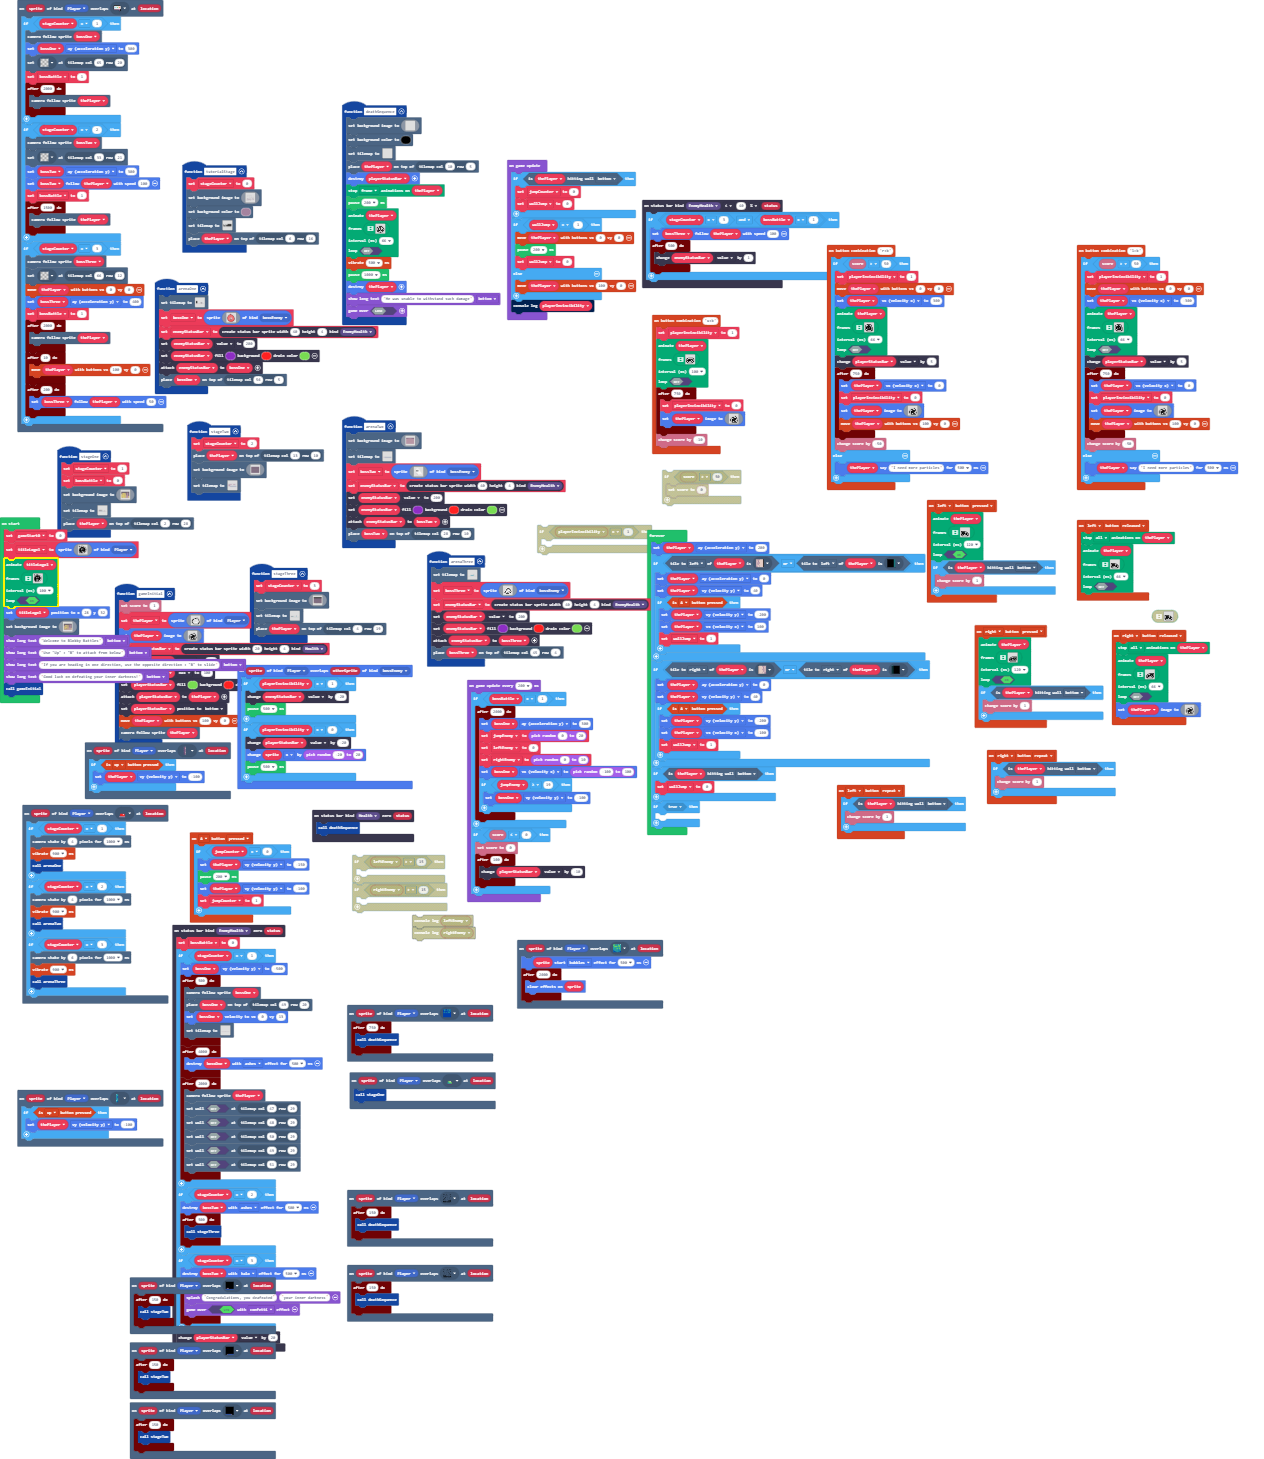
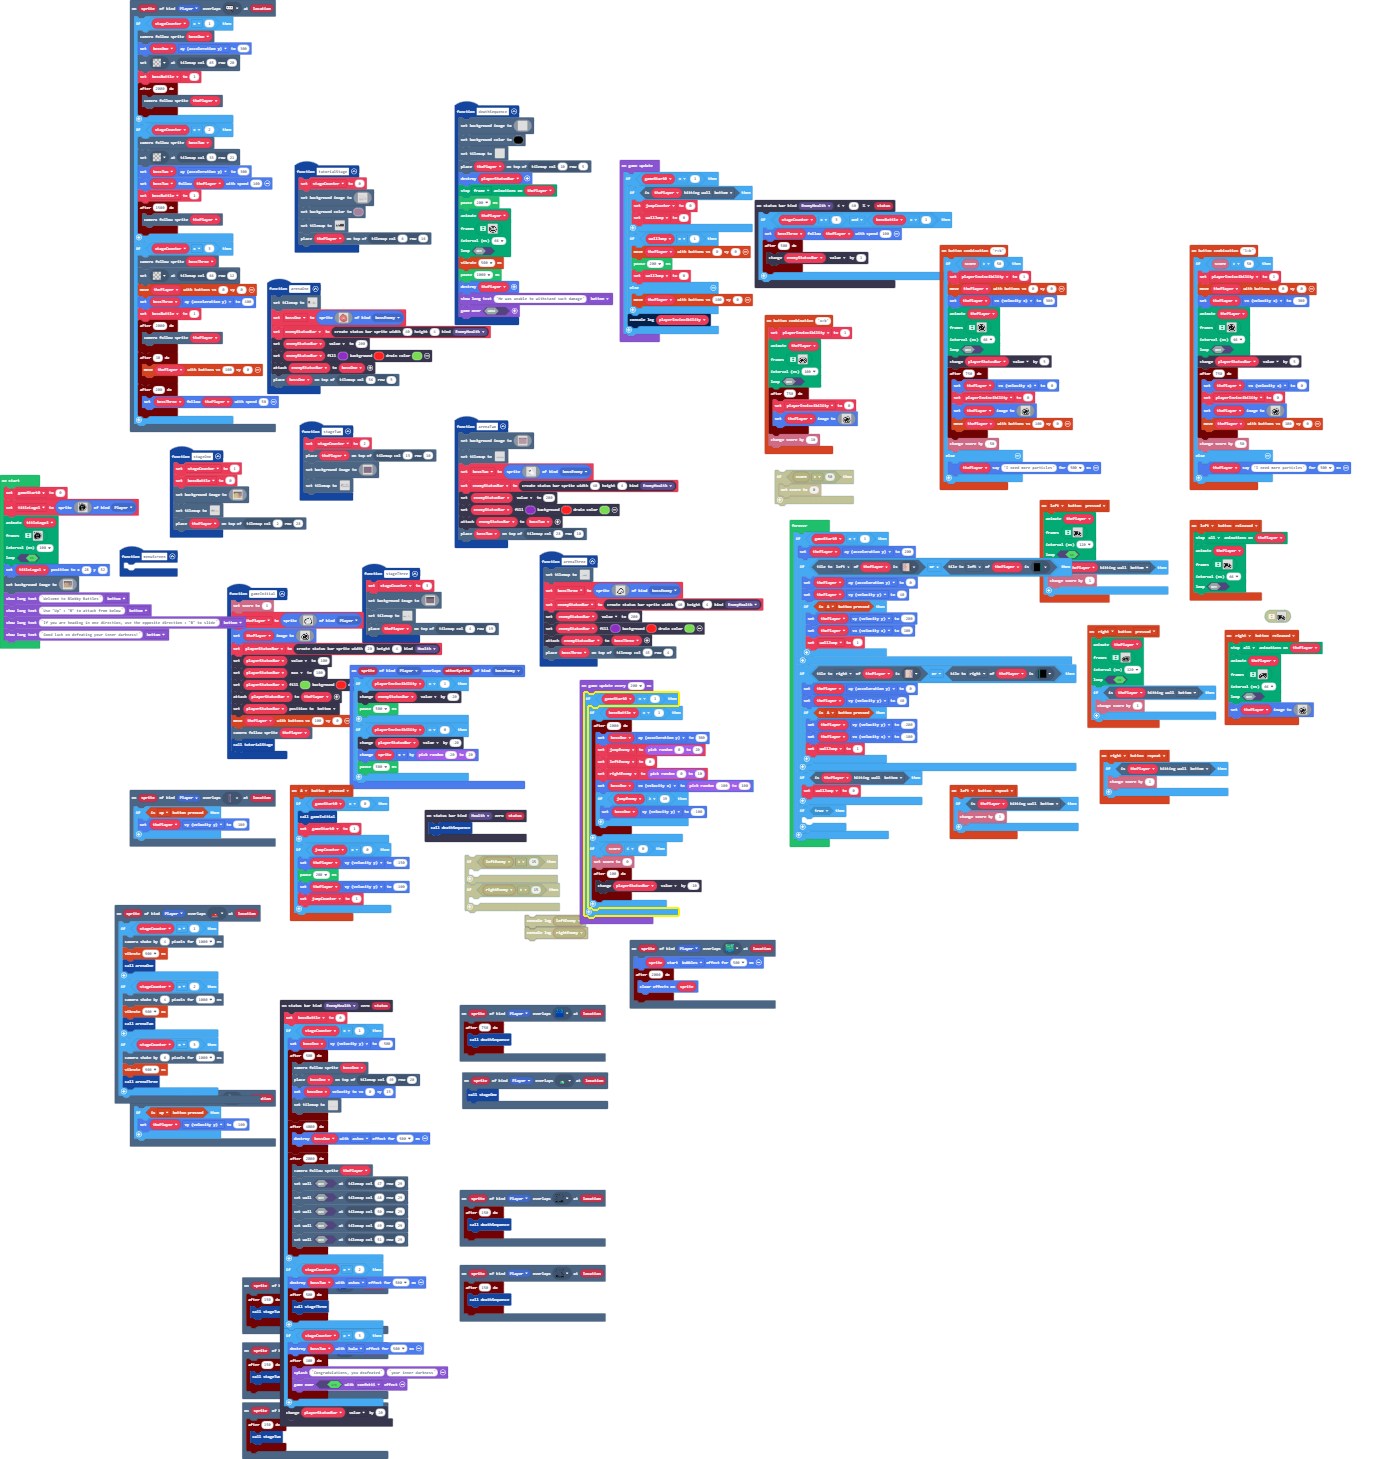
Update main.blocks, main.ts

diff --git a/main.ts b/main.ts
@@ -150,7 +150,14 @@ function stageThree () {
     tiles.setTilemap(tilemap`level5`)
     tiles.placeOnTile(thePlayer, tiles.getTileLocation(4, 19))
 }
+function menuScreen () {
+	
+}
 controller.A.onEvent(ControllerButtonEvent.Pressed, function () {
+    if (gameStart0 == 0) {
+        gameInitial()
+        gameStart0 = 1
+    }
     if (jumpCounter == 0) {
         thePlayer.vy = -150
         pause(200)
@@ -2104,6 +2111,7 @@ let enemyStatusBar: StatusBarSprite = null
 let playerInvincibility = 0
 let thePlayer: Sprite = null
 let gameStart0 = 0
+gameStart0 = 0
 let titleLogo1 = sprites.create(img`
     ...........ffff.................
     ffff......fffffff...............
@@ -2271,65 +2279,70 @@ game.showLongText("Welcome to Blobby Battles", DialogLayout.Bottom)
 game.showLongText("Use \"Up\" + \"B\" to attack from below", DialogLayout.Bottom)
 game.showLongText("If you are heading in one direction, use the opposite direction + \"B\" to slide", DialogLayout.Bottom)
 game.showLongText("Good luck on defeating your inner darkness!", DialogLayout.Bottom)
-gameInitial()
 game.onUpdate(function () {
-    if (thePlayer.isHittingTile(CollisionDirection.Bottom)) {
-        jumpCounter = 0
-        wallJump = 0
+    if (gameStart0 == 1) {
+        if (thePlayer.isHittingTile(CollisionDirection.Bottom)) {
+            jumpCounter = 0
+            wallJump = 0
+        }
+        if (wallJump == 1) {
+            controller.moveSprite(thePlayer, 0, 0)
+            pause(200)
+            wallJump = 0
+        } else {
+            controller.moveSprite(thePlayer, 100, 0)
+        }
+        console.log(playerInvincibility)
     }
-    if (wallJump == 1) {
-        controller.moveSprite(thePlayer, 0, 0)
-        pause(200)
-        wallJump = 0
-    } else {
-        controller.moveSprite(thePlayer, 100, 0)
-    }
-    console.log(playerInvincibility)
 })
 forever(function () {
-    thePlayer.ay = 200
-    if (thePlayer.tileKindAt(TileDirection.Left, assets.tile`myTile29`) || thePlayer.tileKindAt(TileDirection.Left, assets.tile`myTile2`)) {
-        thePlayer.ay = 0
-        thePlayer.vy = 40
-        if (controller.A.isPressed()) {
-            thePlayer.vy = -200
-            thePlayer.vx = 100
-            wallJump = 1
+    if (gameStart0 == 1) {
+        thePlayer.ay = 200
+        if (thePlayer.tileKindAt(TileDirection.Left, assets.tile`myTile29`) || thePlayer.tileKindAt(TileDirection.Left, assets.tile`myTile2`)) {
+            thePlayer.ay = 0
+            thePlayer.vy = 40
+            if (controller.A.isPressed()) {
+                thePlayer.vy = -200
+                thePlayer.vx = 100
+                wallJump = 1
+            }
         }
-    }
-    if (thePlayer.tileKindAt(TileDirection.Right, assets.tile`myTile26`) || thePlayer.tileKindAt(TileDirection.Right, assets.tile`myTile3`)) {
-        thePlayer.ay = 0
-        thePlayer.vy = 40
-        if (controller.A.isPressed()) {
-            thePlayer.vy = -200
-            thePlayer.vx = -100
-            wallJump = 1
+        if (thePlayer.tileKindAt(TileDirection.Right, assets.tile`myTile26`) || thePlayer.tileKindAt(TileDirection.Right, assets.tile`myTile3`)) {
+            thePlayer.ay = 0
+            thePlayer.vy = 40
+            if (controller.A.isPressed()) {
+                thePlayer.vy = -200
+                thePlayer.vx = -100
+                wallJump = 1
+            }
         }
-    }
-    if (thePlayer.isHittingTile(CollisionDirection.Bottom)) {
-        wallJump = 0
-    }
-    if (true) {
-    	
+        if (thePlayer.isHittingTile(CollisionDirection.Bottom)) {
+            wallJump = 0
+        }
+        if (true) {
+        	
+        }
     }
 })
 game.onUpdateInterval(200, function () {
-    if (bossBattle == 1) {
-        timer.after(2000, function () {
-            bossOne.ay = 300
-            jumpEnemy = randint(0, 20)
-            leftEnemy = 0
-            rightEnemy = randint(0, 10)
-            bossOne.vx = randint(-100, 100)
-            if (jumpEnemy >= 19) {
-                bossOne.vy = -100
-            }
-        })
-    }
-    if (info.score() <= 0) {
-        info.setScore(0)
-        timer.after(100, function () {
-            playerStatusBar.value += -10
-        })
+    if (gameStart0 == 1) {
+        if (bossBattle == 1) {
+            timer.after(2000, function () {
+                bossOne.ay = 300
+                jumpEnemy = randint(0, 20)
+                leftEnemy = 0
+                rightEnemy = randint(0, 10)
+                bossOne.vx = randint(-100, 100)
+                if (jumpEnemy >= 19) {
+                    bossOne.vy = -100
+                }
+            })
+        }
+        if (info.score() <= 0) {
+            info.setScore(0)
+            timer.after(100, function () {
+                playerStatusBar.value += -10
+            })
+        }
     }
 })
